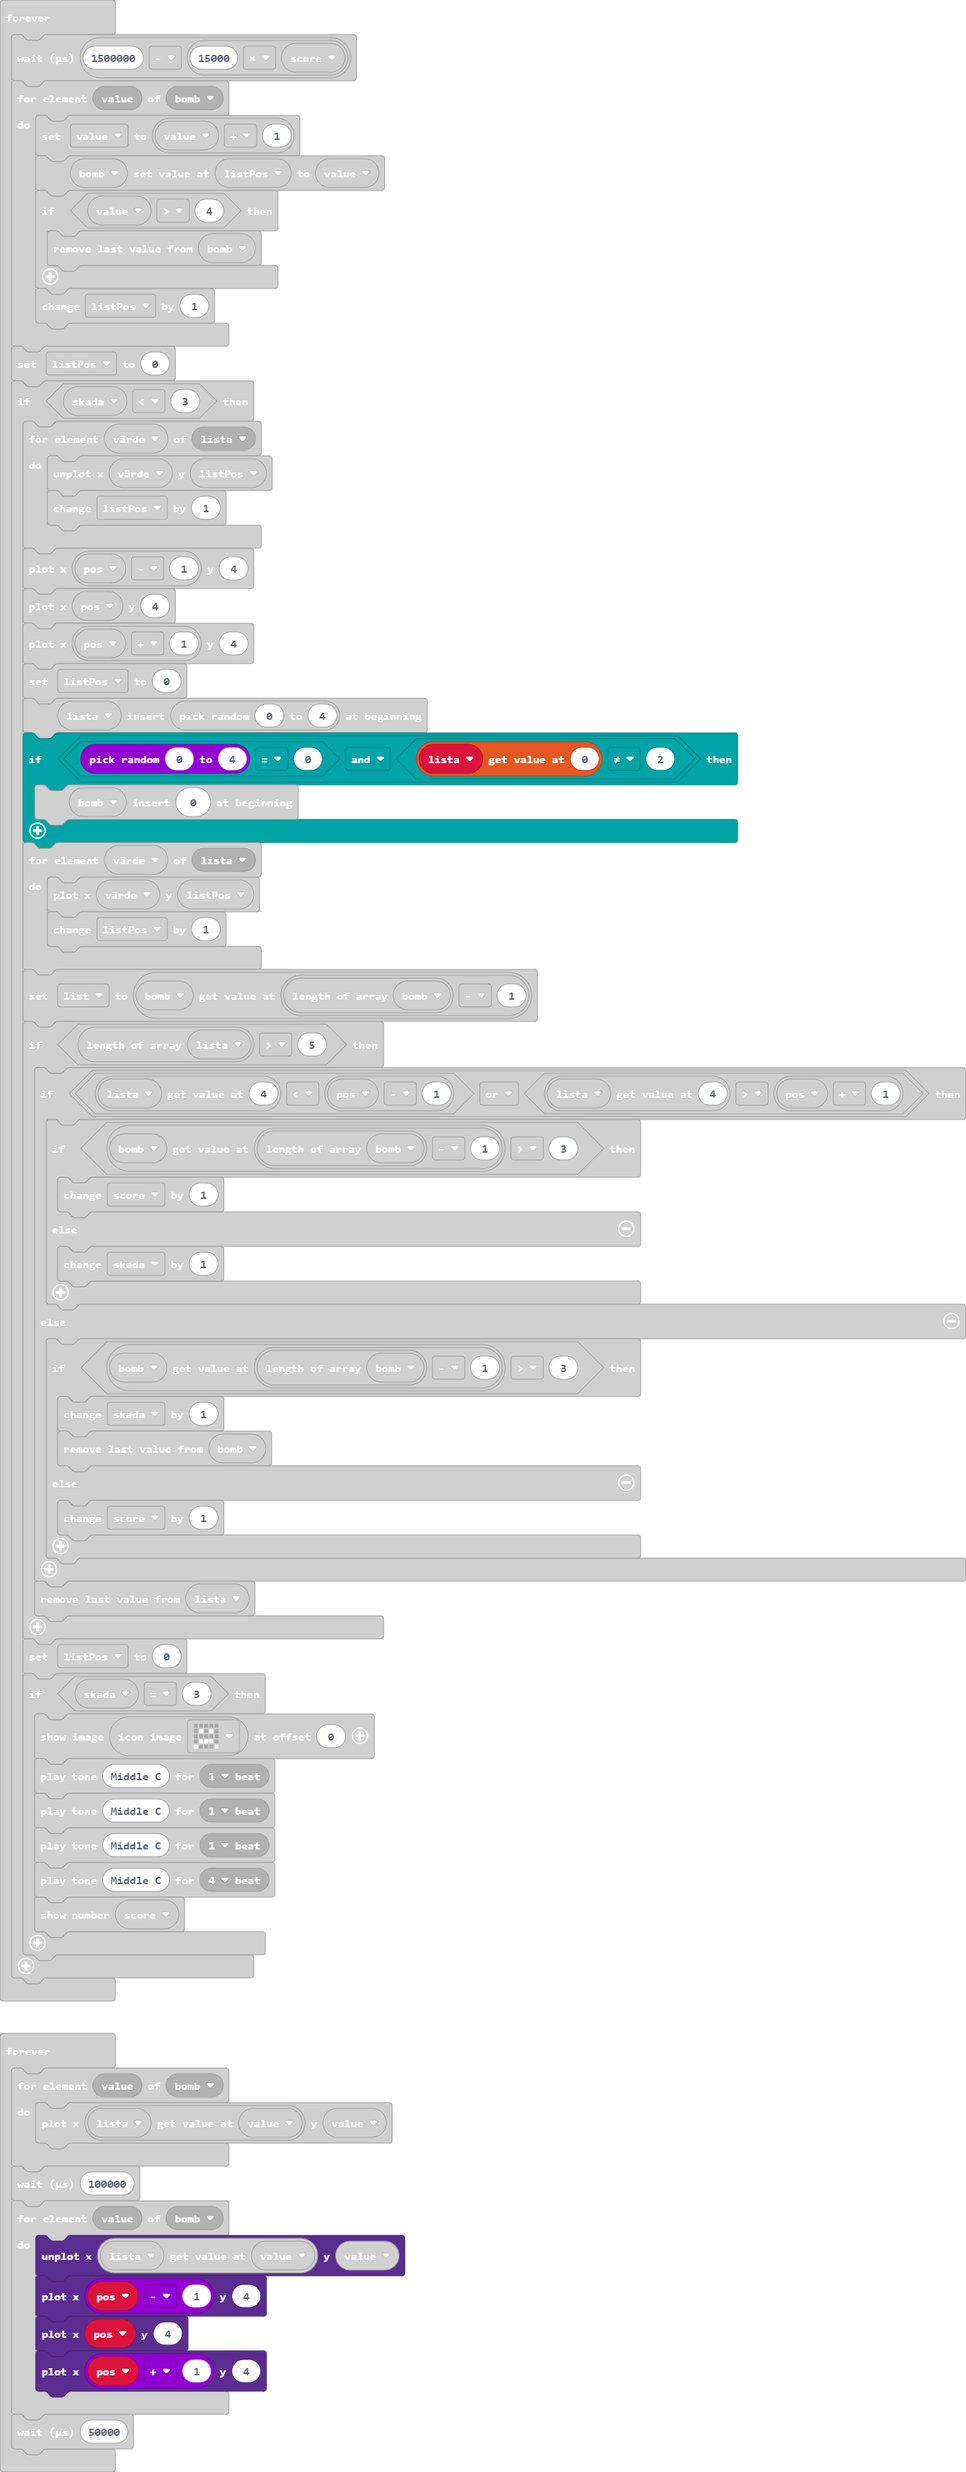
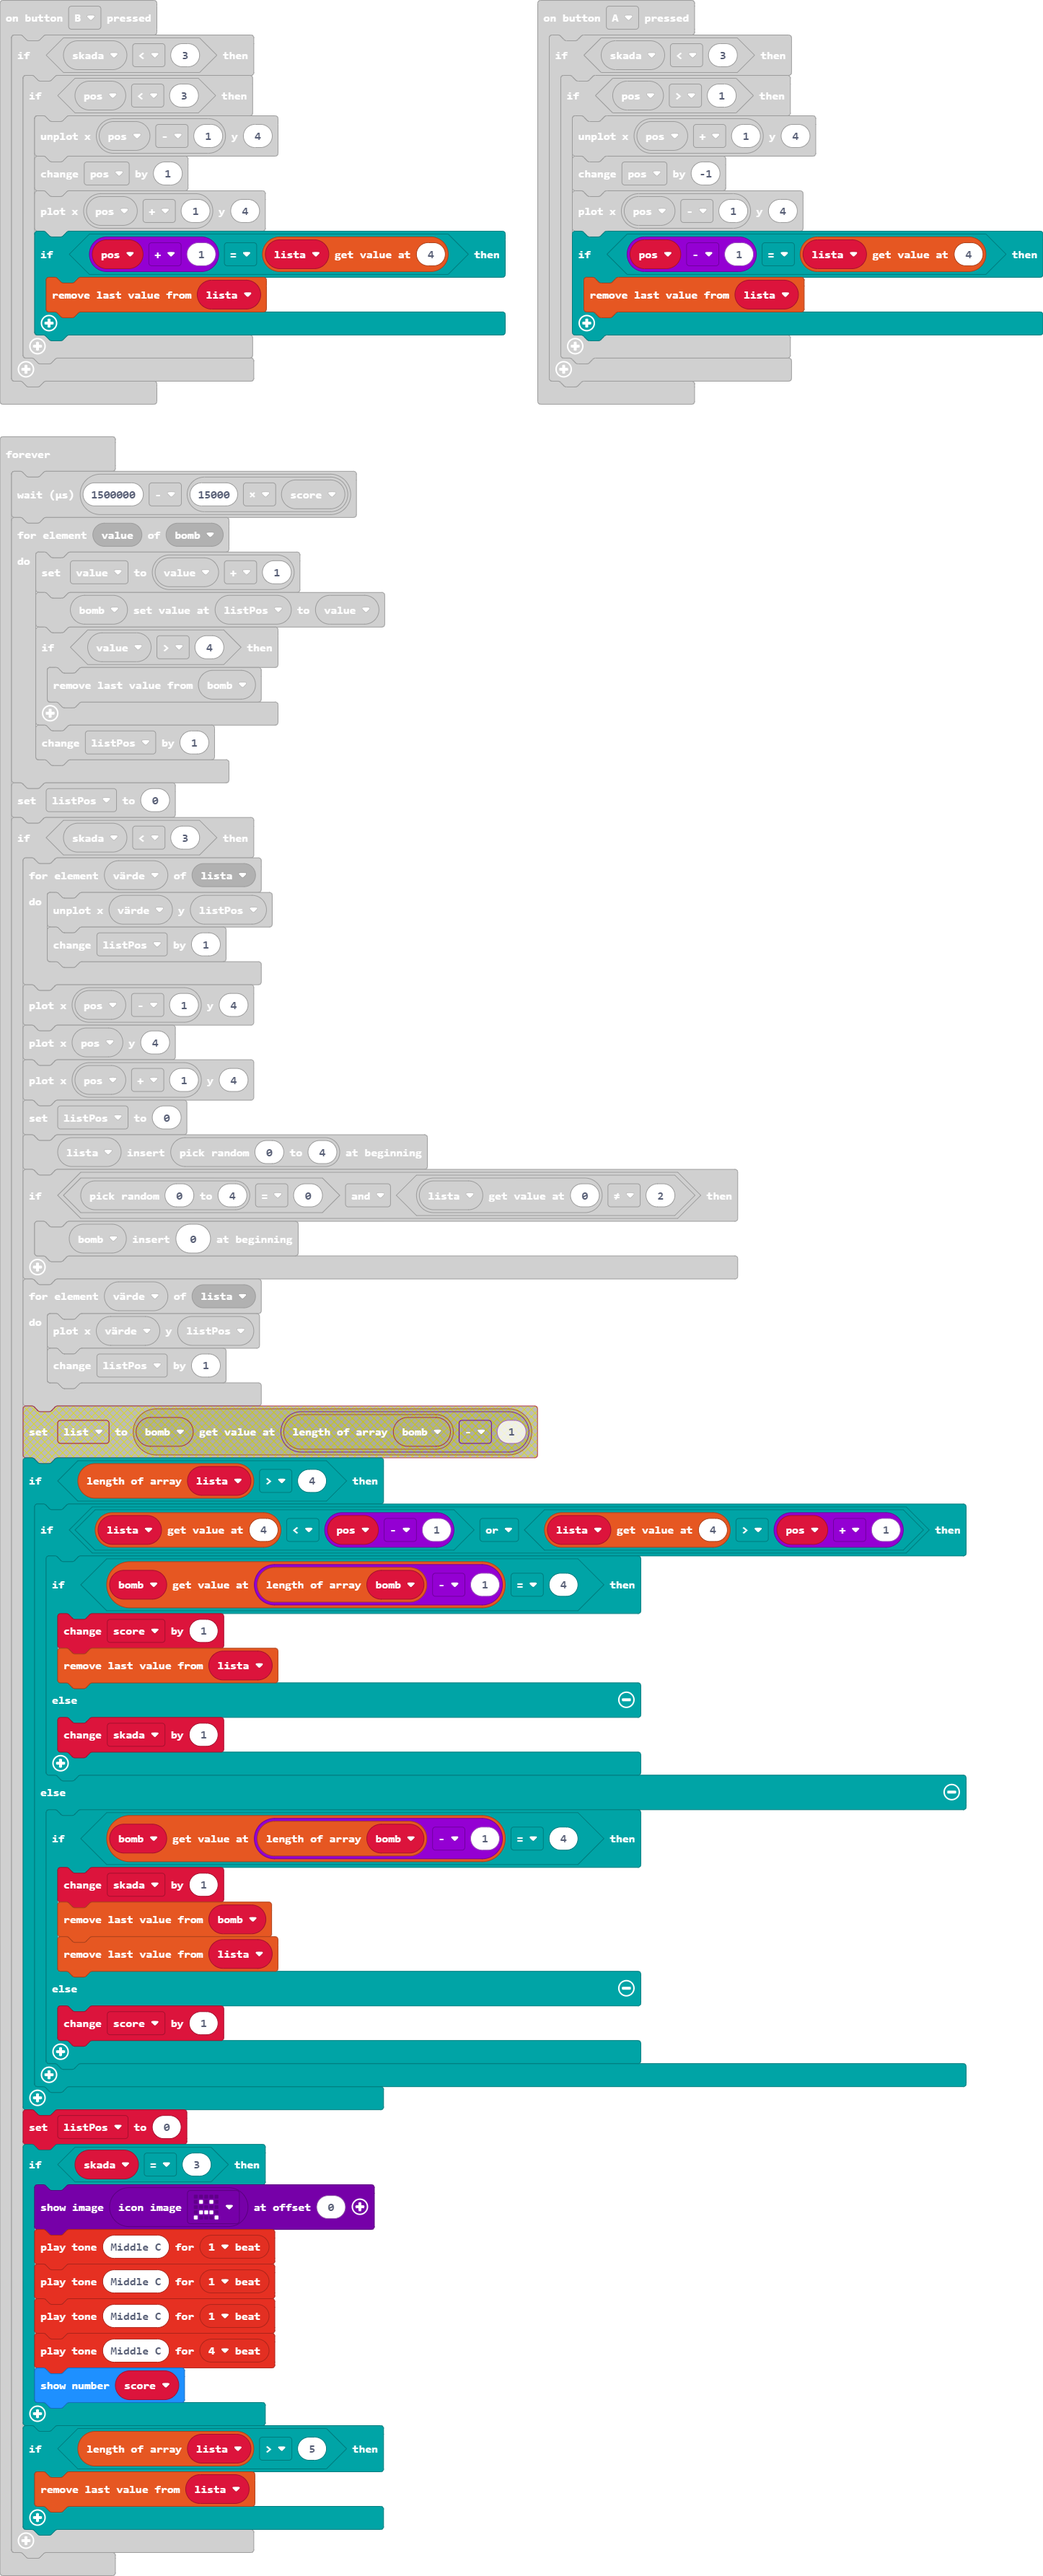
Update main.blocks, main.ts

diff --git a/main.ts b/main.ts
@@ -4,6 +4,9 @@ input.onButtonPressed(Button.A, function () {
             led.unplot(pos + 1, 4)
             pos += -1
             led.plot(pos - 1, 4)
+            if (pos - 1 == lista[4]) {
+                lista.pop()
+            }
         }
     }
 })
@@ -13,15 +16,18 @@ input.onButtonPressed(Button.B, function () {
             led.unplot(pos - 1, 4)
             pos += 1
             led.plot(pos + 1, 4)
+            if (pos + 1 == lista[4]) {
+                lista.pop()
+            }
         }
     }
 })
-let list = 0
 let listPos = 0
 let score = 0
 let skada = 0
 let pos = 0
 let lista: number[] = []
+lista = []
 pos = 2
 led.plot(pos - 1, 4)
 led.plot(pos, 4)
@@ -55,23 +61,26 @@ basic.forever(function () {
             led.plot(värde, listPos)
             listPos += 1
         }
-        list = bomb[bomb.length - 1]
         if (lista.length > 5) {
+            lista.pop()
+        }
+        if (lista.length > 4) {
             if (lista[4] < pos - 1 || lista[4] > pos + 1) {
-                if (bomb[bomb.length - 1] > 3) {
+                if (bomb[bomb.length - 1] == 4) {
                     score += 1
+                    lista.pop()
                 } else {
                     skada += 1
                 }
             } else {
-                if (bomb[bomb.length - 1] > 3) {
+                if (bomb[bomb.length - 1] == 4) {
                     skada += 1
                     bomb.pop()
+                    lista.pop()
                 } else {
                     score += 1
                 }
             }
-            lista.pop()
         }
         listPos = 0
         if (skada == 3) {
